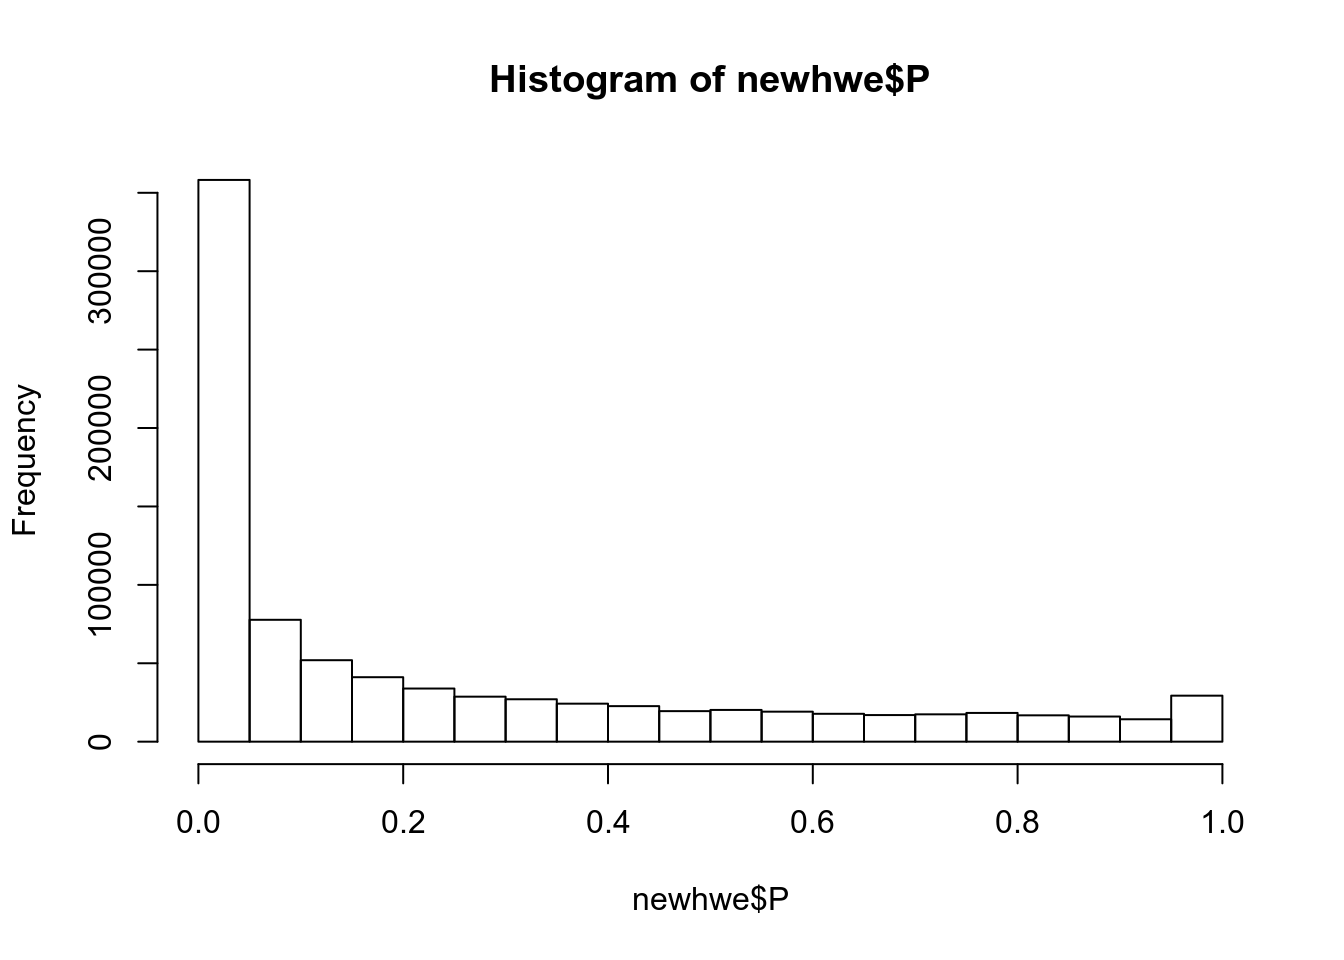
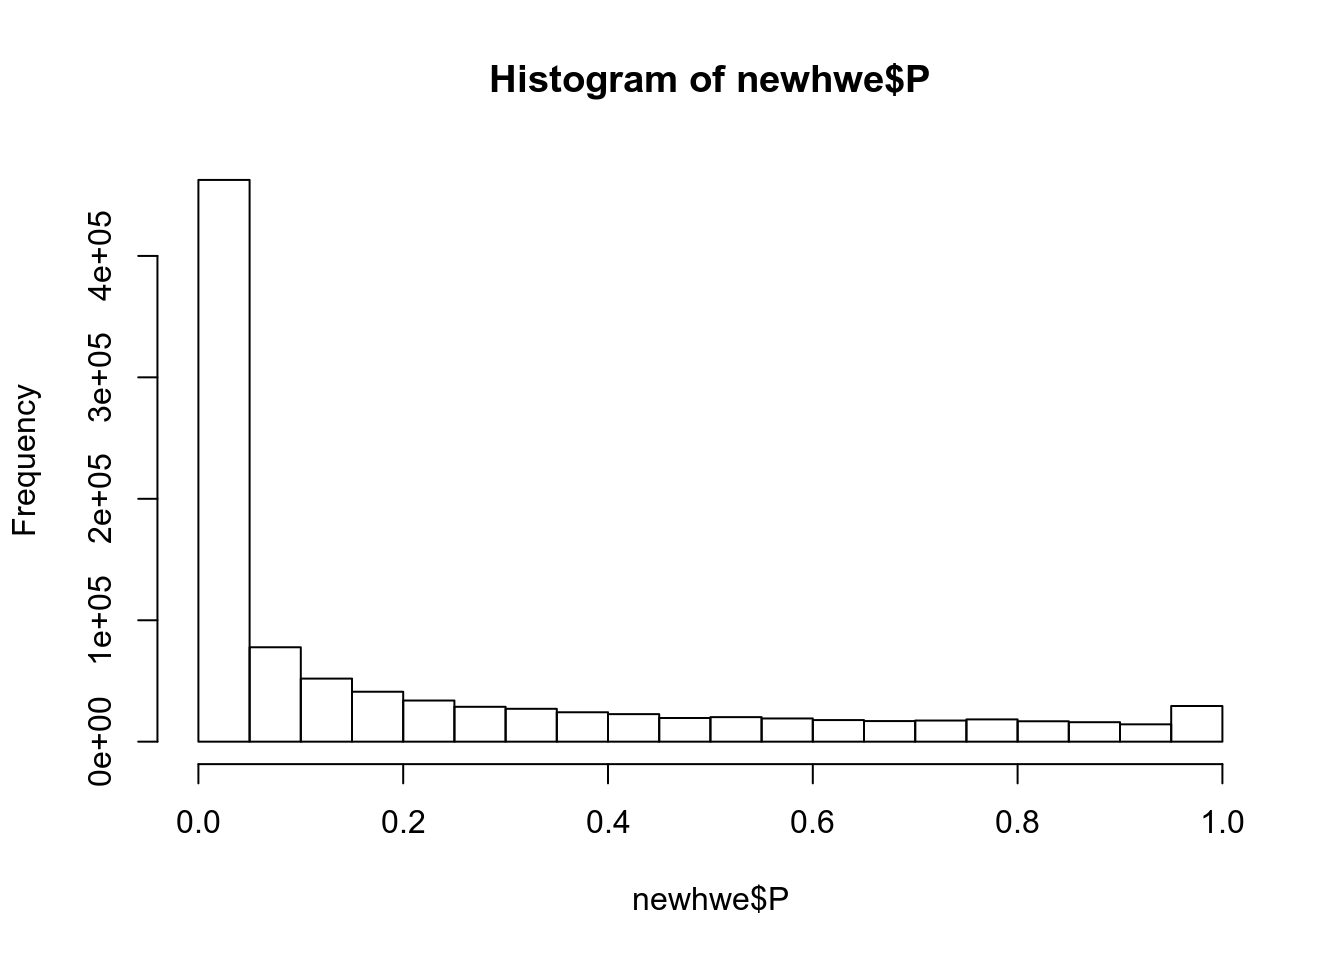
Build site.

diff --git a/docs/missingness-filtering.html b/docs/missingness-filtering.html
@@ -413,7 +413,7 @@ div.tocify {
 <div class="tab-content">
 <div id="summary" class="tab-pane fade in active">
 <p>
-<strong>Last updated:</strong> 2020-11-08
+<strong>Last updated:</strong> 2020-11-09
 </p>
 <p>
 <strong>Checks:</strong> <span class="glyphicon glyphicon-ok text-success" aria-hidden="true"></span> 7 <span class="glyphicon glyphicon-exclamation-sign text-danger" aria-hidden="true"></span> 0
@@ -504,24 +504,24 @@ This reproducible <a href="http://rmarkdown.rstudio.com">R Markdown</a> analysis
 <div class="panel panel-default">
 <div class="panel-heading">
 <p class="panel-title">
-<a data-toggle="collapse" data-parent="#workflowr-checks" href="#strongRepositoryversionstrongahrefhttpsgithubcomhwittichGWASQCtreea588ef7b3cbc80aadf5f5f1ba8eb013800280531targetblanka588ef7a"> <span class="glyphicon glyphicon-ok text-success" aria-hidden="true"></span> <strong>Repository version:</strong> <a href="https://github.com/hwittich/GWAS_QC/tree/a588ef7b3cbc80aadf5f5f1ba8eb013800280531" target="_blank">a588ef7</a> </a>
+<a data-toggle="collapse" data-parent="#workflowr-checks" href="#strongRepositoryversionstrongahrefhttpsgithubcomhwittichGWASQCtree90c21d1585b095f1742b3a6da383ba36c6ef8d87targetblank90c21d1a"> <span class="glyphicon glyphicon-ok text-success" aria-hidden="true"></span> <strong>Repository version:</strong> <a href="https://github.com/hwittich/GWAS_QC/tree/90c21d1585b095f1742b3a6da383ba36c6ef8d87" target="_blank">90c21d1</a> </a>
 </p>
 </div>
[2 lines of base64/hex data omitted]
 <div class="panel-body">
 <p>
 Great! You are using Git for version control. Tracking code development and connecting the code version to the results is critical for reproducibility.
 </p>
 <p>
-The results in this page were generated with repository version <a href="https://github.com/hwittich/GWAS_QC/tree/a588ef7b3cbc80aadf5f5f1ba8eb013800280531" target="_blank">a588ef7</a>. See the <em>Past versions</em> tab to see a history of the changes made to the R Markdown and HTML files.
+The results in this page were generated with repository version <a href="https://github.com/hwittich/GWAS_QC/tree/90c21d1585b095f1742b3a6da383ba36c6ef8d87" target="_blank">90c21d1</a>. See the <em>Past versions</em> tab to see a history of the changes made to the R Markdown and HTML files.
 </p>
 <p>
 Note that you need to be careful to ensure that all relevant files for the analysis have been committed to Git prior to generating the results (you can use <code>wflow_publish</code> or <code>wflow_git_commit</code>). workflowr only checks the R Markdown file, but you know if there are other scripts or data files that it depends on. Below is the status of the Git repository when the results were generated:
 </p>
 <pre><code>
 Ignored files:
+    Ignored:    .Rhistory
     Ignored:    .Rproj.user/
-    Ignored:    analysis/figure/
 
 </code></pre>
 <p>
@@ -560,6 +560,40 @@ Message
 </tr>
 </thead>
 <tbody>
+<tr>
+<td>
+Rmd
+</td>
+<td>
+<a href="https://github.com/hwittich/GWAS_QC/blob/90c21d1585b095f1742b3a6da383ba36c6ef8d87/analysis/missingness-filtering.Rmd" target="_blank">90c21d1</a>
+</td>
+<td>
+Henry Wittich
+</td>
+<td>
+2020-11-09
+</td>
+<td>
+Resolved some confusion over the hwe filtering step and altered the
+</td>
+</tr>
+<tr>
+<td>
+html
+</td>
+<td>
+<a href="https://rawcdn.githack.com/hwittich/GWAS_QC/6a55d82410d733a33852679f324cdf549f0e327d/docs/missingness-filtering.html" target="_blank">6a55d82</a>
+</td>
+<td>
+Henry Wittich
+</td>
+<td>
+2020-11-08
+</td>
+<td>
+Build site.
+</td>
+</tr>
 <tr>
 <td>
 Rmd
@@ -864,23 +898,60 @@ Henry Wittich
 <pre class="r"><code>hwe &lt;- read.table(&quot;~/mount/gwasqc/output/11-8-2020/missingness_hwe_steps/04initial_HWE_stats.hwe&quot;, header = T)
 hist(hwe$P)</code></pre>
 <p><img src="figure/missingness-filtering.Rmd/unnamed-chunk-10-1.png" width="672" style="display: block; margin: auto;" /></p>
+<p>
+<button type="button" class="btn btn-default btn-xs btn-workflowr btn-workflowr-fig" data-toggle="collapse" data-target="#fig-unnamed-chunk-10-1">
+Past versions of unnamed-chunk-10-1.png
+</button>
+</p>
+<div id="fig-unnamed-chunk-10-1" class="collapse">
+<div class="table-responsive">
+<table class="table table-condensed table-hover">
+<thead>
+<tr>
+<th>
+Version
+</th>
+<th>
+Author
+</th>
+<th>
+Date
+</th>
+</tr>
+</thead>
+<tbody>
+<tr>
+<td>
+<a href="https://github.com/hwittich/GWAS_QC/blob/6a55d82410d733a33852679f324cdf549f0e327d/docs/figure/missingness-filtering.Rmd/unnamed-chunk-10-1.png" target="_blank">6a55d82</a>
+</td>
+<td>
+Henry Wittich
+</td>
+<td>
+2020-11-08
+</td>
+</tr>
+</tbody>
+</table>
+</div>
+</div>
 <pre class="r"><code>#The P column in the hwe file contains the Hardy-Weinberg equilibrium exact test p-value</code></pre>
-<pre class="r"><code>##SNPs with Hardy-Weinberg equilibrium exact test p-value below 1e-4
-table(hwe$P&lt;0.0001)</code></pre>
+<pre class="r"><code>##SNPs with Hardy-Weinberg equilibrium exact test p-value below 1e-6
+table(hwe$P&lt;0.000001)</code></pre>
 <pre><code>
  FALSE   TRUE 
-871456 285254 </code></pre>
-<pre class="r"><code>##SNPs with Hardy-Weinberg equilibrium exact test p-value below 1e-4
-table(hwe$P&lt;0.0001)/sum(table(hwe$P&lt;0.0001))</code></pre>
+975824 180886 </code></pre>
+<pre class="r"><code>##SNPs with Hardy-Weinberg equilibrium exact test p-value below 1e-6
+table(hwe$P&lt;0.000001)/sum(table(hwe$P&lt;0.0001))</code></pre>
 <pre><code>
     FALSE      TRUE 
-0.7533919 0.2466081 </code></pre>
-<p>Looking at this histogram, we want to keep most samples with a p-value close to 0, because this indicates that the SNPS follow Hardy-Weinberg equilibrium. Setting a cut off around 1e-4 might be too stringent, as we would lose almost 870,000 SNPs. How do I choose an appropriate ctuoff and which should I use in this case?</p>
+0.8436203 0.1563797 </code></pre>
+<p>This histogram plots the Hardy-Weinberg equilibrium exact test p-values for all SNPs in the dataset. The null hypothesis of the test is that a SNP is in HWE, and we expect most SNPs to be in HWE. For SNPs with low p-values, we would reject the null hypothesis and assume that they are not in HWE, which is more likely to be the result of a genotyping error that a natural occurence, so we would like to filter out SNPs with low p-values. However, we can see in the histogram that many of our SNPs have low p-values, thus we must set a very low p-value cutoff that would remove all problematic SNPs from the dataset without losing too many of our samples. Setting a cutoff around 1e-6 seems like it would be a good cutoff, only removing around 15% of SNPs from the dataset.</p>
 </div>
 <div id="filter-bfiles-by-hwe-pvalues-and-recalculate-statistics" class="section level1">
 <h1>6 Filter bfiles by hwe pvalues and recalculate statistics</h1>
-<pre><code>plink --bfile ~/gwasqc/output/11-8-2020/missingness_hwe_steps/02geno_0.01_filtered --hwe 0.0001 --make-bed --out ~/gwasqc/output/11-8-2020/missingness_hwe_steps/05filtered_HWE</code></pre>
-<p>The –hwe 0.0001 flag filters out all SNPs with a p-value above the 0.0001 cutoff.</p>
+<pre><code>plink --bfile ~/gwasqc/output/11-8-2020/missingness_hwe_steps/02geno_0.01_filtered --hwe 0.000001 --make-bed --out ~/gwasqc/output/11-8-2020/missingness_hwe_steps/05filtered_HWE</code></pre>
+<p>The –hwe 0.000001 flag filters out all SNPs with a p-value below the 0.000001 cutoff.</p>
 <p>Producing the following output files:<br />
 – 05filtered_HWE.bed<br />
 – 05filtered_HWE.bim<br />
@@ -894,8 +965,45 @@ table(hwe$P&lt;0.0001)/sum(table(hwe$P&lt;0.0001))</code></pre>
 <pre class="r"><code>newhwe &lt;- read.table(&quot;~/mount/gwasqc/output/11-8-2020/missingness_hwe_steps/06final_HWE_stats.hwe&quot;, header = T)
 hist(newhwe$P)</code></pre>
 <p><img src="figure/missingness-filtering.Rmd/unnamed-chunk-13-1.png" width="672" style="display: block; margin: auto;" /></p>
+<p>
+<button type="button" class="btn btn-default btn-xs btn-workflowr btn-workflowr-fig" data-toggle="collapse" data-target="#fig-unnamed-chunk-13-1">
+Past versions of unnamed-chunk-13-1.png
+</button>
+</p>
+<div id="fig-unnamed-chunk-13-1" class="collapse">
+<div class="table-responsive">
+<table class="table table-condensed table-hover">
+<thead>
+<tr>
+<th>
+Version
+</th>
+<th>
+Author
+</th>
+<th>
+Date
+</th>
+</tr>
+</thead>
+<tbody>
+<tr>
+<td>
+<a href="https://github.com/hwittich/GWAS_QC/blob/6a55d82410d733a33852679f324cdf549f0e327d/docs/figure/missingness-filtering.Rmd/unnamed-chunk-13-1.png" target="_blank">6a55d82</a>
+</td>
+<td>
+Henry Wittich
+</td>
+<td>
+2020-11-08
+</td>
+</tr>
+</tbody>
+</table>
+</div>
+</div>
 <pre class="r"><code>#The P column in the hwe file contains the Hardy-Weinberg equilibrium exact test p-value</code></pre>
-<p>This plot looks strange. It looks like we have filtered out all SNPs below the threshold, when, in fact, these are the SNPs we want to keep. The <a href="https://www.cog-genomics.org/plink/1.9/filter">PLINK 1.9 documentation</a> states that the –hwe flag “filters out all variants which have Hardy-Weinberg equilibrium exact test p-value below the provided threshold.” I’m unclear why this flag would behave this way, or if there is an alternative option to filter above the p-value threshold.</p>
+<p>Looks good!</p>
 <br>
 <p>
 <button type="button" class="btn btn-default btn-workflowr btn-workflowr-sessioninfo" data-toggle="collapse" data-target="#workflowr-sessioninfo" style="display: block;">
